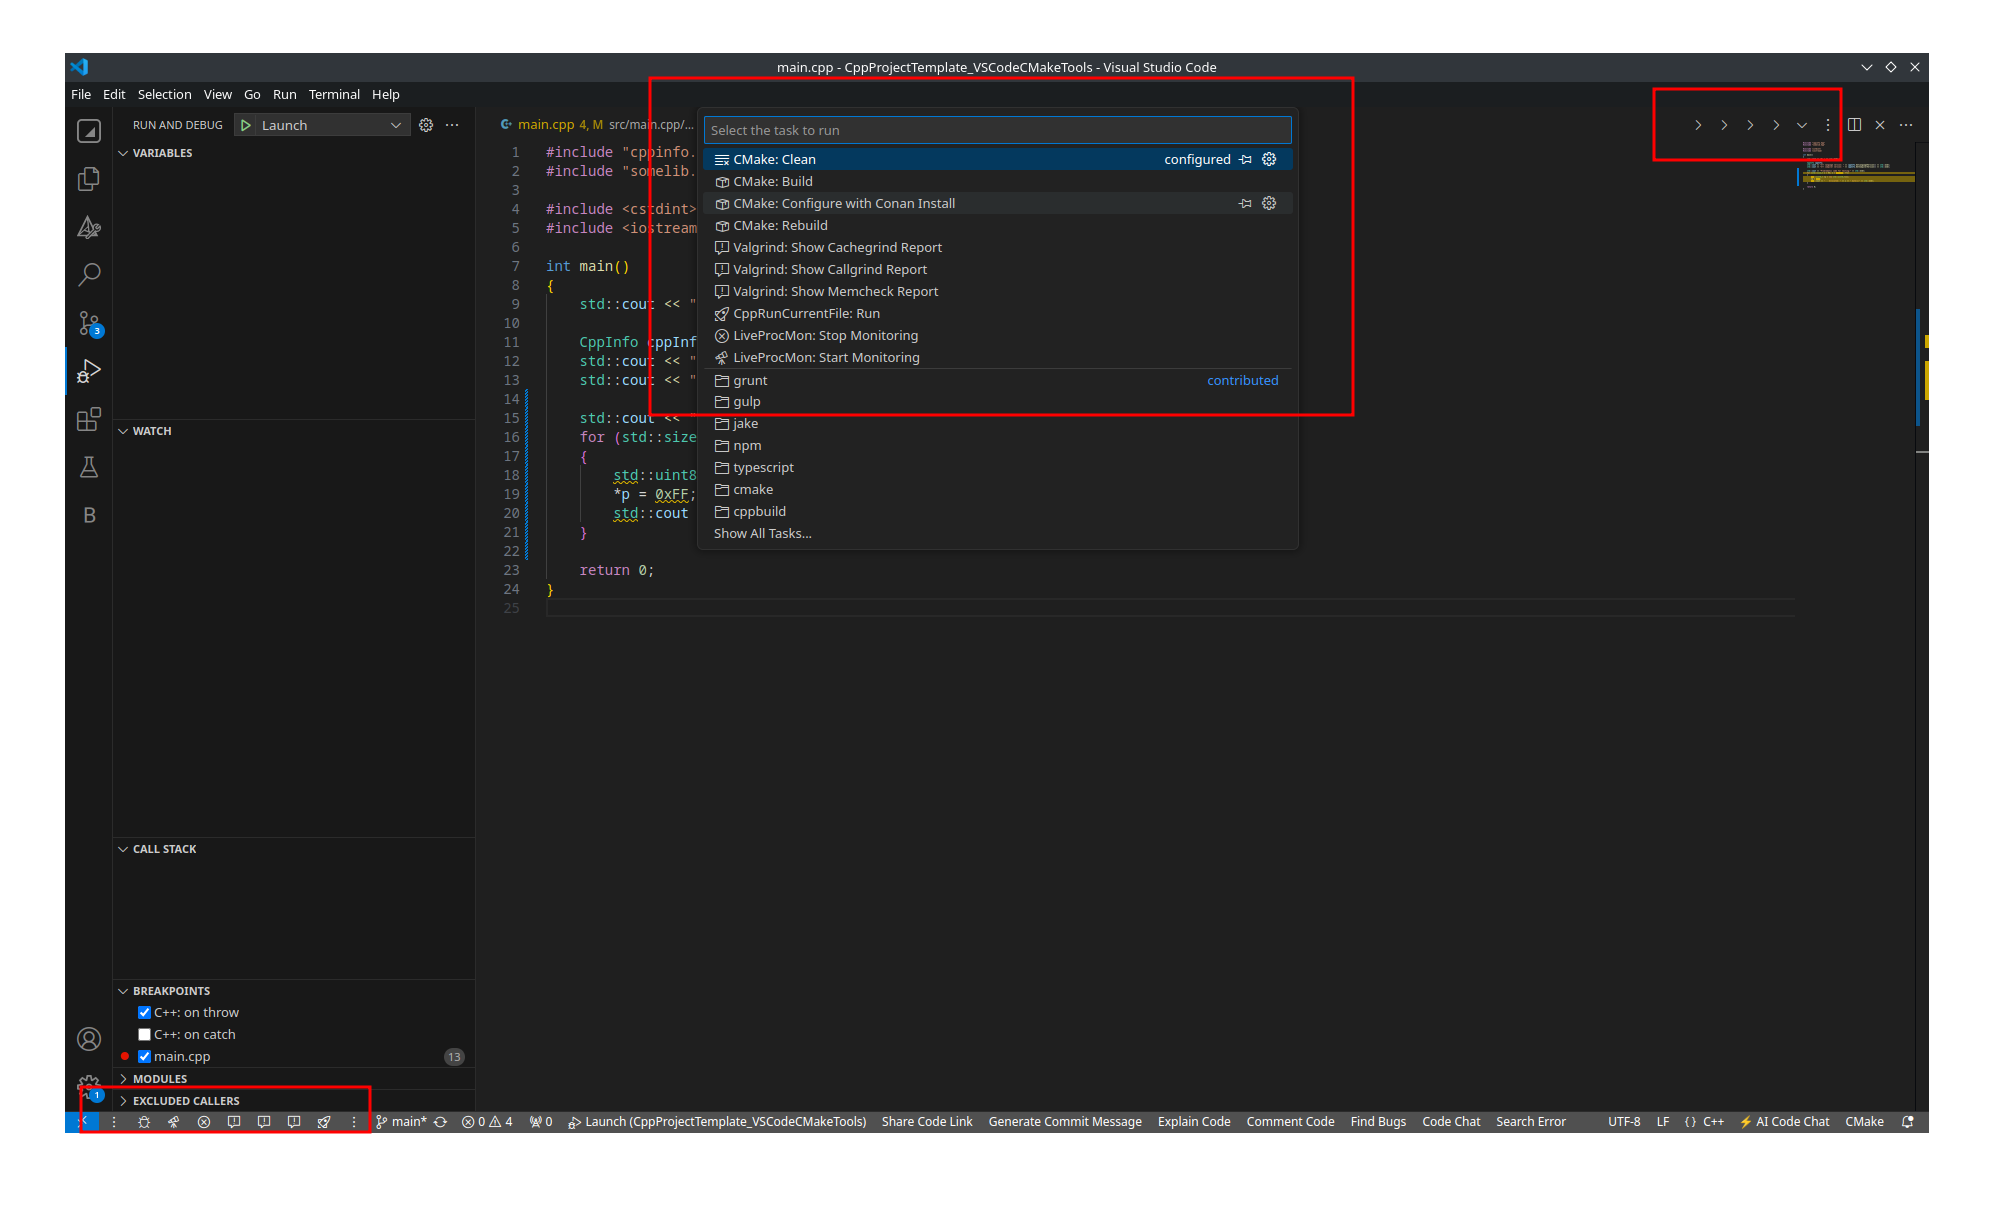
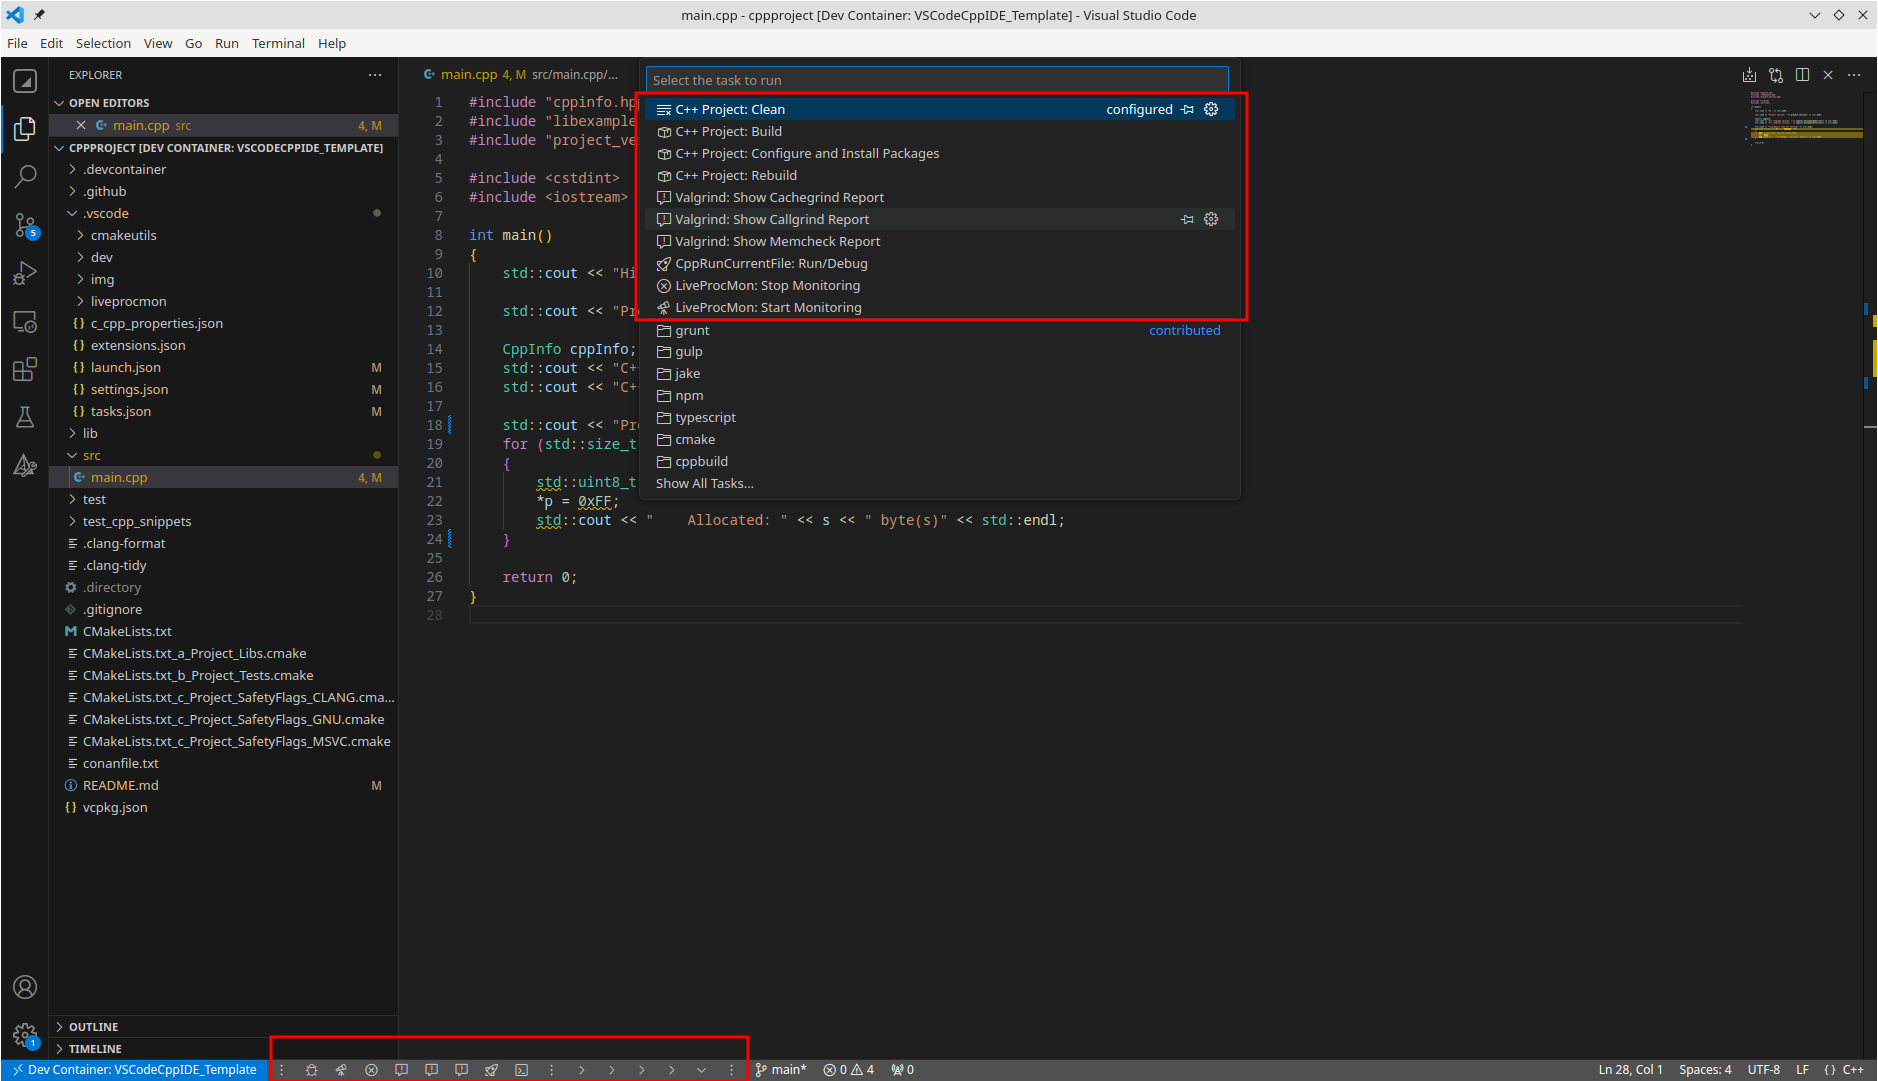
readme

diff --git a/src/main.cpp b/src/main.cpp
@@ -15,13 +15,13 @@ int main()
     std::cout << "C++ language version: " << cppInfo.GetLanguageVersion() << std::endl;
     std::cout << "C++ compiler version: " << cppInfo.GetCompilerVersion() << std::endl;
 
-    /*std::cout << "Problematic code for testing:" << std::endl;
+    std::cout << "Problematic code for testing:" << std::endl;
     for (std::size_t s = 0U; s < 5000000; ++s)
     {
         std::uint8_t *p = new std::uint8_t[1];
         *p = 0xFF;
         std::cout << "    Allocated: " << s << " byte(s)" << std::endl;
-    }*/
+    }
 
     return 0;
 }

diff --git a/README.md b/README.md
@@ -26,10 +26,10 @@ Template of C++ project with config to make a VSCode be IDE-like with set of use
 ---
 
 ### Main tasks
-* `Project: Clean` - runs `cmake.clean` command + remove all Valgrind reports
-* `Project: Configure and Build` - configure and run `cmake.build` command
-* `Project: Configure and Rebuild` - configure and run `cmake.cleanRebuild` command
-* `Project: Configure and Install Packages` - install `conanfile.txt` and run `cmake.configure` command
+* `C++ Project: Clean` - runs `cmake.clean` command + remove all Valgrind reports
+* `C++ Project: Configure and Build` - configure and run `cmake.build` command
+* `C++ Project: Configure and Rebuild` - configure and run `cmake.cleanRebuild` command
+* `C++ Project: Configure and Install Packages` - install `conanfile.txt` and run `cmake.configure` command
 * `CppRunCurrentFile: Run/Debug` - build, run & debug currently opened `.cpp` source file
 * `LiveProcMon: Start Monitoring` - start real-time monitoring of the target process (by default taken from `cmake.launchTargetPath`)
 * `LiveProcMon: Stop Monitoring` - stop monitoring
